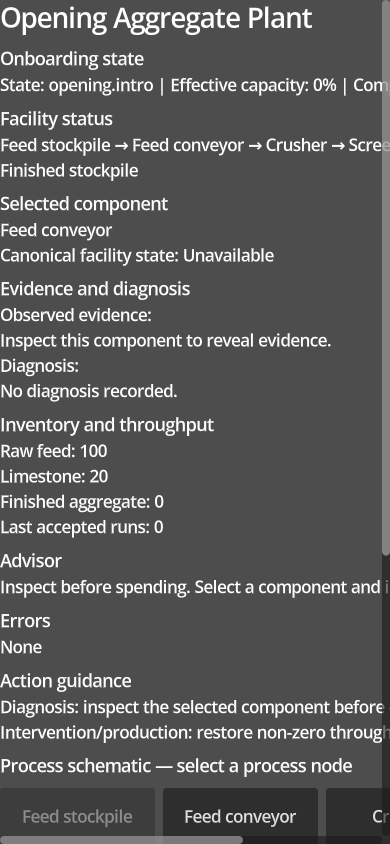
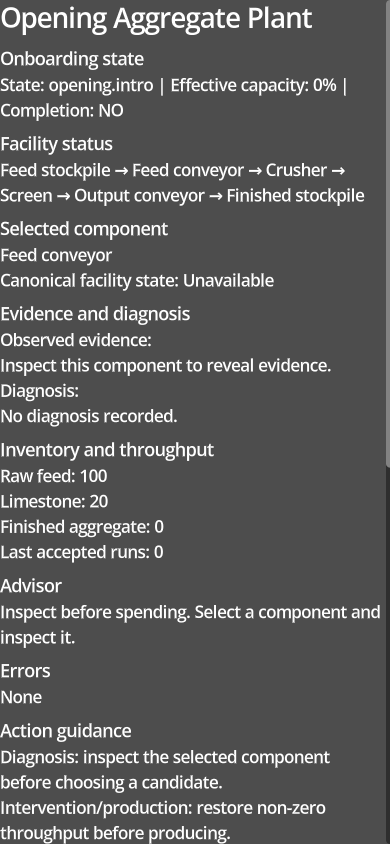
Add WP-011 R4 overflow handback

Changed region(s): [[0.0, 0.0, 1.0, 1.0]]

diff --git a/docs/engineering/handbacks/wp-011/WP011_R4_HANDBACK.md b/docs/engineering/handbacks/wp-011/WP011_R4_HANDBACK.md
@@ -1,0 +1,83 @@
+ENGINEERING HANDBACK
+
+Work package: WP-011 R4
+Technical Authority directive: `docs/engineering/directives/WP-011_R4_PORTRAIT_OVERFLOW_VISUAL_GATE_REMEDIATION.md`
+Directive commit: `f5cce71de6e3e02c4e6e206e4bc7966281384f9c`
+Execution agent: Devin
+Worker model: GPT-5.6 Luna
+Worker effort: XHigh
+Implementation class: D1 — exact remediation
+
+Repository / branch: `xOMAIKOx/gridworkx` / `engineering/wp-011-opening-aggregate-slice`
+Original parent: `ca5b4f06cdba226176296dd1ee7d294ef6c7927a`
+R4 starting HEAD: `b48906a86598222c4960fa8efdea7f1cd203aaea`
+Implementation commit: `45ec9a51fcdd7b45949e02c173ec48564825b260`
+Final HEAD: exact handback commit SHA is recorded by the canonical issue #24 and PR #25 receipts for this document.
+
+## R4 remediation
+
+- Removed portrait horizontal scrolling by disabling horizontal ScrollContainer mode, removing the hard content-width minimum and using expanding layout containers.
+- Made diagnosis controls one-column and action controls two-column at 390×844; process cards continue to wrap through FlowContainer.
+- Added executable 390×844 layout proof: the real controller test asserts the horizontal scrollbar is hidden and content width is within the viewport after layout settles.
+- Added exact existence and dimension assertions for all five visual captures.
+- Regenerated real Godot/Xvfb PNG evidence after the layout correction.
+
+## Visual evidence
+
+- `docs/evidence/wp-011/opening-portrait-390x844.png` — 390×844.
+- `docs/evidence/wp-011/opening-wide-1440x900.png` — 1440×900.
+- `docs/evidence/wp-011/inspected-feed-390x844.png` — 390×844.
+- `docs/evidence/wp-011/partial-recovery-390x844.png` — 390×844, `opening.produce`, capacity 3%.
+- `docs/evidence/wp-011/first-output-390x844.png` — 390×844, `opening.complete`, accepted runs 3, finished aggregate 24.
+
+CI gate:
+
+```sh
+file "$portrait" "$inspected" "$partial" "$first_output" | grep -c 'PNG image data, 390 x 844'  # 4
+file "$wide" | grep -c 'PNG image data, 1440 x 900'                                  # 1
+```
+
+The gate also requires all five files to be non-empty.
+
+## Files changed
+
+- `apps/game/scripts/opening_aggregate_controller.gd`
+- `apps/game/scripts/wp011_headless_test.gd`
+- `.github/workflows/ci.yml`
+- `tests/structural/check_wp011_integration.py`
+- `docs/evidence/WP-011_OPENING_AGGREGATE_VERTICAL_SLICE.md`
+- `docs/evidence/wp-011/*.png`
+- `docs/engineering/handbacks/wp-011/WP011_R4_HANDBACK.md`
+
+## Verification
+
+- `make validate`: PASS
+- `make test`: PASS
+- `make security`: PASS
+- Rust/golden/bridge/version contracts: unchanged and PASS
+- WP-010 native build/Xvfb import/runtime parity: PASS
+- WP-011 controller/golden test: PASS
+- 390×844 no-horizontal-overflow assertion: PASS
+- Five-file exact-dimension visual gate: PASS
+- Push CI: PASS — https://github.com/xOMAIKOx/gridworkx/actions/runs/35957143617
+- PR CI: PASS — https://github.com/xOMAIKOx/gridworkx/actions/runs/35957147357
+
+## Acceptance mapping
+
+- AC-R4-01 through AC-R4-05: PASS — portrait has no horizontal scrollbar; text, process nodes, diagnosis and action controls reflow; executable no-overflow proof is green.
+- AC-R4-06 through AC-R4-10: PASS — all five PNGs exist at exact required dimensions.
+- AC-R4-11: PASS — CI fails on missing files or dimension mismatch.
+- AC-R4-12: PASS — partial recovery remains `opening.produce` at capacity 3.
+- AC-R4-13: PASS — first output remains `opening.complete`, runs 3, finished aggregate 24.
+- AC-R4-14: PASS — accepted Rust, goldens, bridge and pins are unchanged.
+- AC-R4-15: PASS — existing WP-010/WP-011 deterministic, runtime and security gates are green.
+- AC-R4-16: PASS — no WP-012+, host, deployment, provider, DB, port or container scope.
+- AC-R4-17: PASS — this durable handback is committed.
+
+Deviations from directive: NONE.
+
+Open blockers/risks: NONE within R4.
+
+Unauthorized environment/production mutations: NONE.
+
+Final state: READY FOR SOL/PRO REVIEW

diff --git a/docs/evidence/WP-011_OPENING_AGGREGATE_VERTICAL_SLICE.md b/docs/evidence/WP-011_OPENING_AGGREGATE_VERTICAL_SLICE.md
@@ -68,6 +68,13 @@ Committed expected values in the WP-011 fixture:
 
 Restart creates a fresh canonical scenario and restores the initial digest; it does not rewind a used snapshot. Bridge unavailable/error states are explicit and non-authoritative; no mock/fake simulation fallback exists.
 
+## R4 portrait overflow and visual-gate evidence
+
+- The portrait controller disables horizontal scrolling and uses a zero-width content minimum with expanding layout containers.
+- Diagnosis controls reflow to one column at 390×844; action controls use two columns; process nodes wrap through `FlowContainer`.
+- The executable controller test sets the viewport to 390×844 and asserts the horizontal scrollbar is hidden and content width is within the viewport.
+- CI asserts all five screenshots exist and exact dimensions using `file`/`grep`: four `390 x 844` images and one `1440 x 900` image.
+
 ## R3 presentation-state and responsive evidence
 
 - Guided state sequence is derived from canonical state: `opening.intro` → `opening.inspect` → `opening.diagnose` → `opening.intervene` → `opening.produce` → `opening.complete`.
